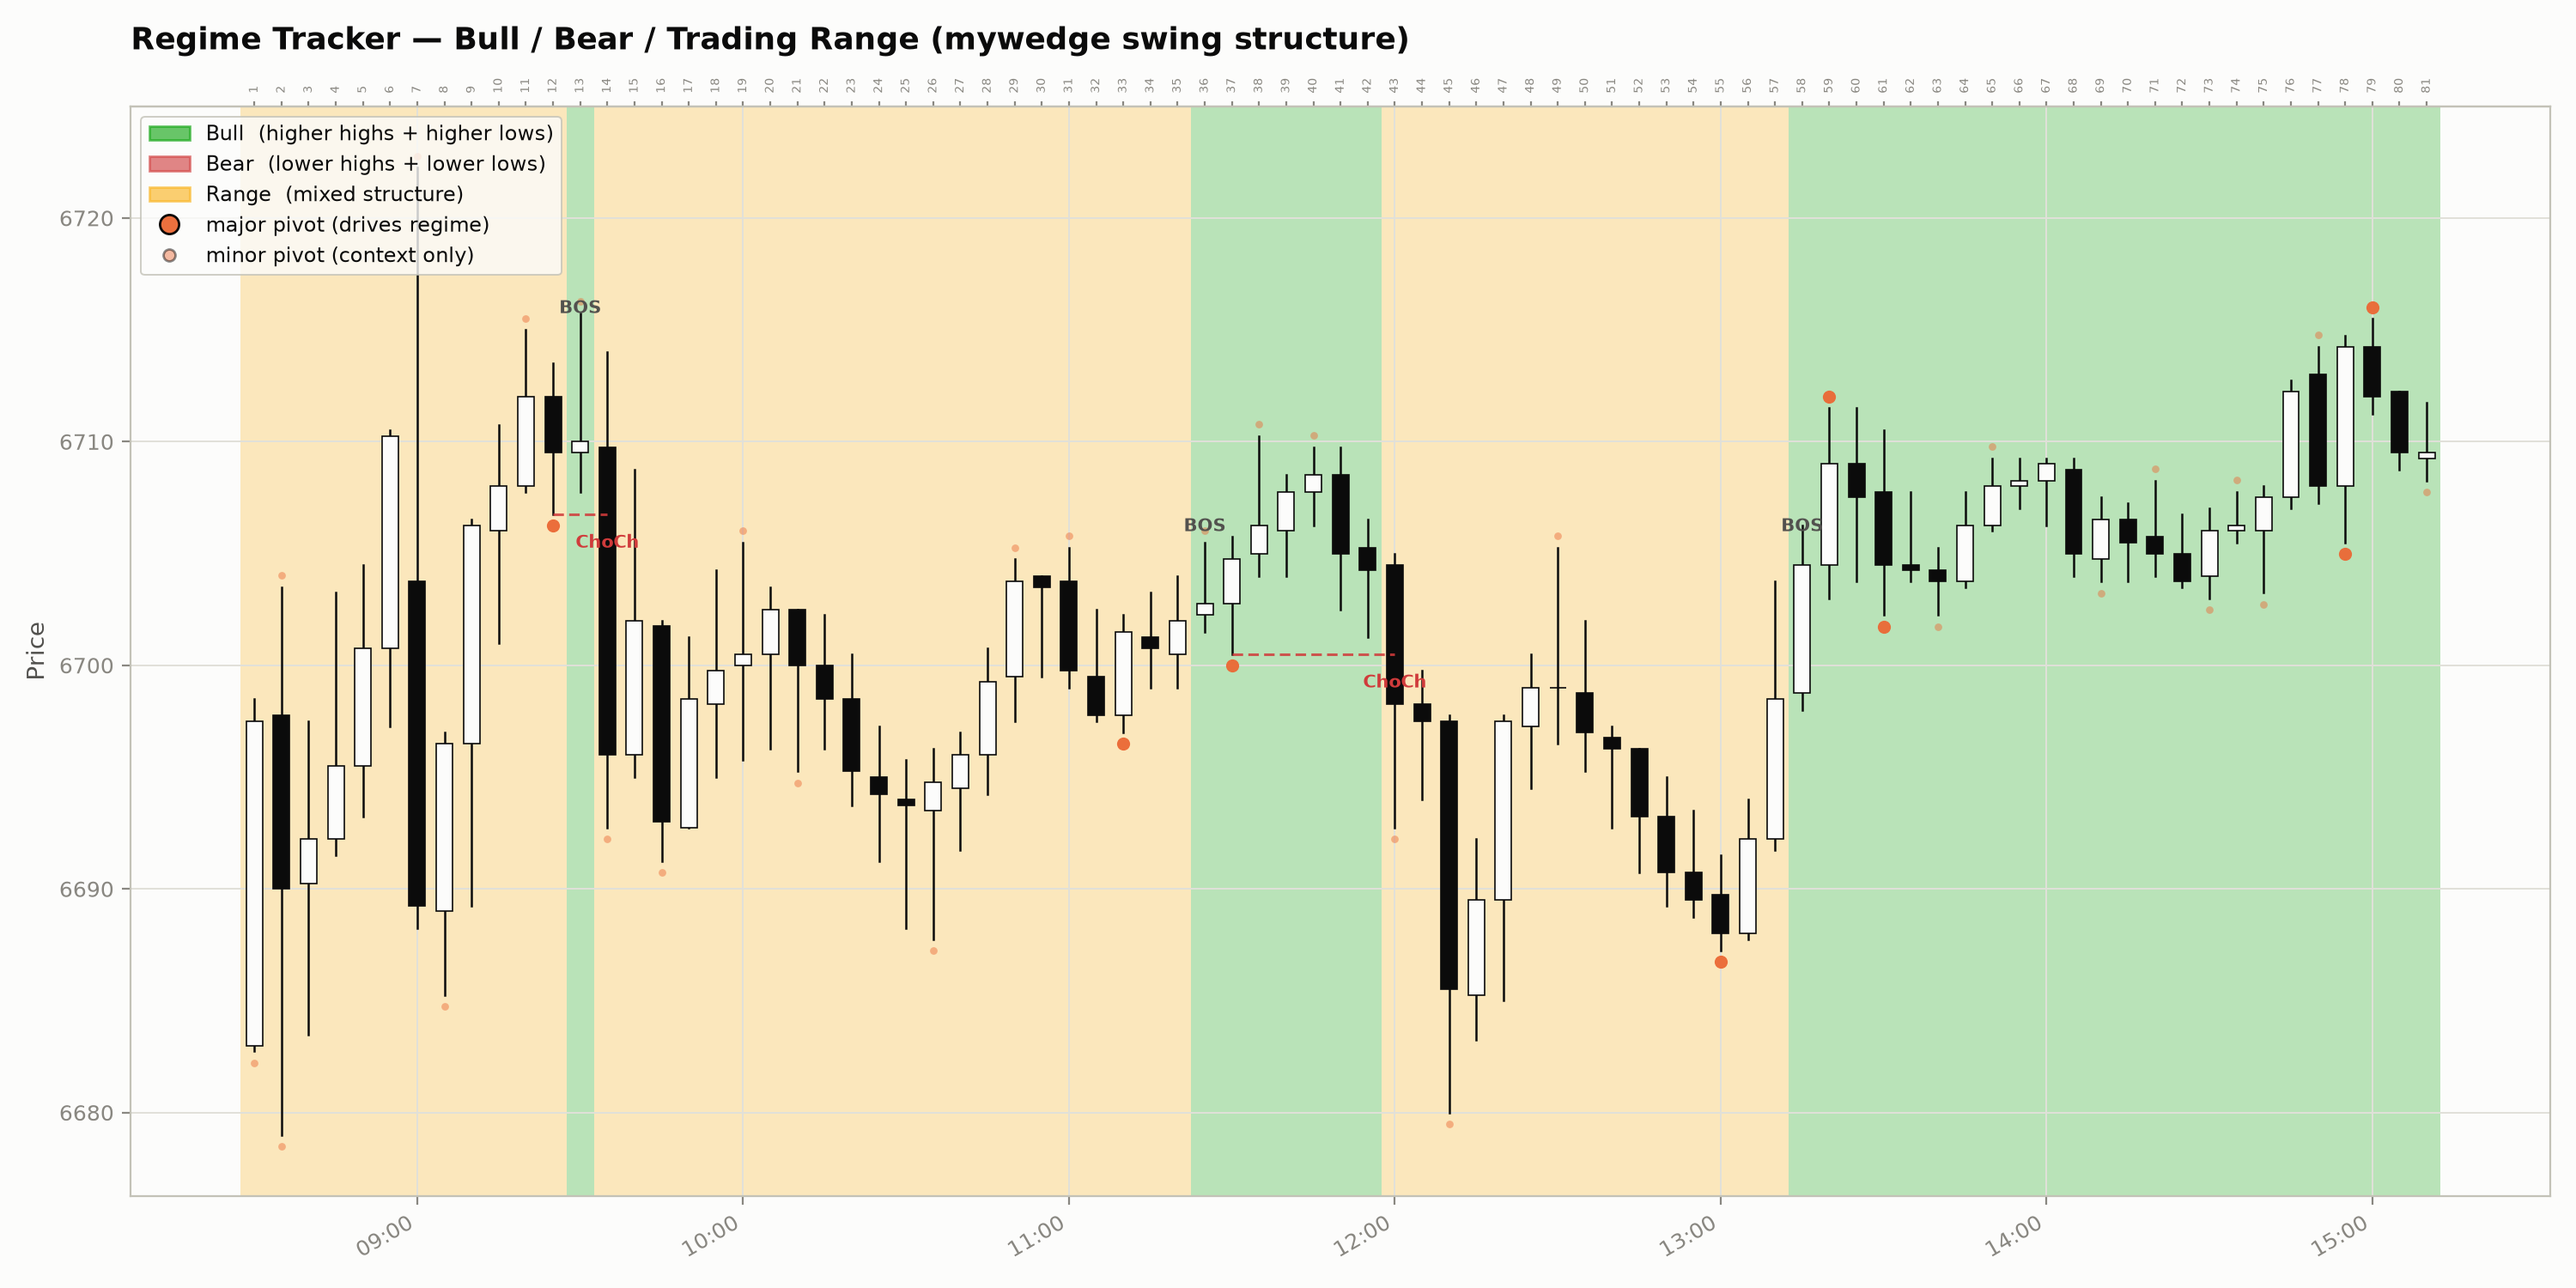
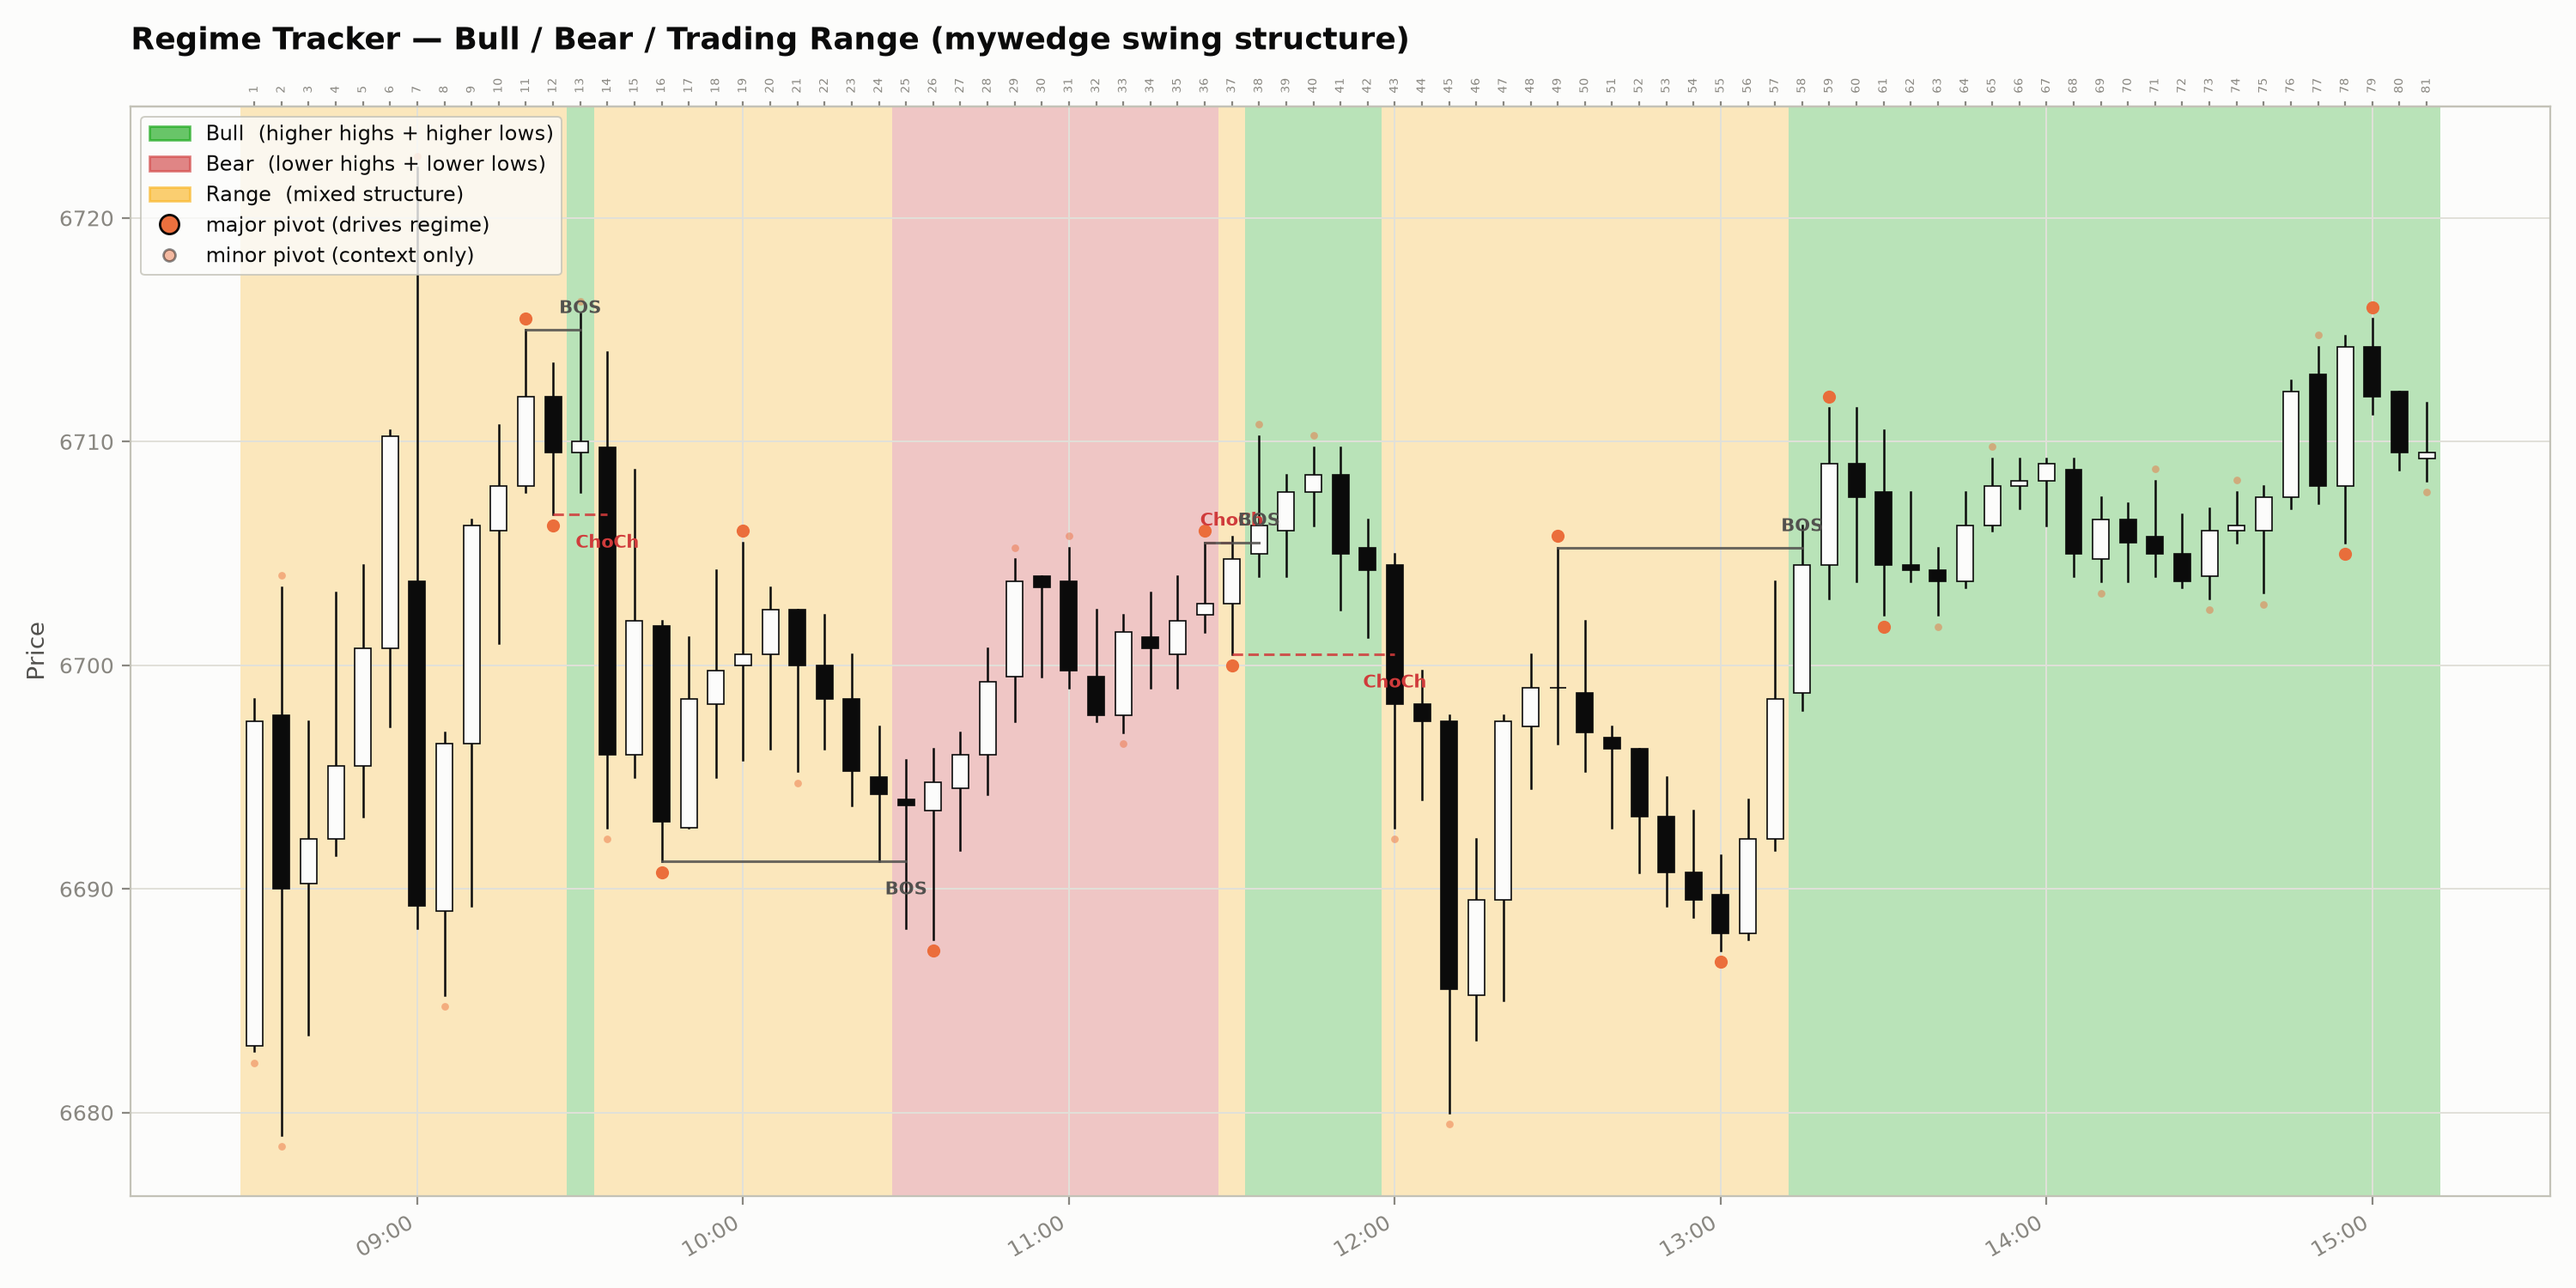
fix(regime-tracker): range exit must clear the swing BEFORE the LH/HL
A range only becomes a trend when the break takes out the swing standing
immediately before the lower high (bear) or higher low (bull) — not whatever
swing happened to print last. A minor pivot forming after the LH/HL never
broke the opposing major structure, so per Market Structure.pdf it must not
reset the setup. Implemented as entry_setup() in regime_tracker.py.

Caught on 2026-06-25: b60->b64 is a bear leg, b65 the pullback LH, and b69
breaking b64's low (7422.25 -> 7418.75) is a BOS into Bear. The old code took
b67's minor low (7422.75) as the reference and missed the entry.

Same rule confirms 2026-04-06 b25 (LH b19 6705.50, ref low b16 6691.25,
broken at 6688.25) while still rejecting b23 (6693.75 — never reached it).

Effect vs 68277ec3, measured:
- Regime timeline unchanged: 12-26, 01-13, 02-13, 06-29. 02-13's hand-marked
  ChoCh at b43 and its Bull 12-43 / Bear 51-81 shape are intact.
- Regime timeline changed: 04-06 (new Bear 25-37) and 06-12 (new Bear 75-79).
- All sessions drop spurious BOS events (12-26 -7, 01-13 -7, 02-13 -4) and
  none gain any; several pullbacks now promote to major correctly. Those
  events were already filtered out of the charts.

Adds the 06-25 session data and chart.

Changed region(s): [[0.341, 0.0613, 0.496, 0.9507]]

diff --git a/regime_tracker/regime_tracker.py b/regime_tracker/regime_tracker.py
@@ -109,6 +109,32 @@ def compute_regime(swing_low, swing_high, low, high, bar_dir=None):
             trend = new_trend
             res.change_points.append((i, new_trend))
 
+    def entry_setup(kind):
+        """The range-exit setup, read the way the document's diagram draws it:
+        1(H) 2(L) 3(H = lower high), and the BOS then breaks 2.
+
+        `kind` is the side that must slope: "H" for a bear setup (lower high),
+        "L" for a bull setup (higher low). Returns (counter_bar, counter_price,
+        ref_bar, ref_price) where counter is the LH/HL that becomes the ChoCh
+        level once the trend starts, and ref is the swing standing immediately
+        BEFORE it -- the one the break has to take out.
+
+        Crucially the reference is the swing before the LH/HL, not whatever
+        swing happened last. A minor pivot forming after it never broke the
+        opposing structure, so it does not reset the setup."""
+        pos = [j for j, (_, k, _) in enumerate(zz) if k == kind]
+        if len(pos) < 2 or pos[-1] == 0:
+            return None
+        j = pos[-1]
+        last_price, prev_price = zz[j][2], zz[pos[-2]][2]
+        sloped = last_price < prev_price if kind == "H" else last_price > prev_price
+        if not sloped:
+            return None
+        ref = zz[j - 1]
+        if ref[1] == kind:               # not alternating -- nothing before it
+            return None
+        return zz[j][0], last_price, ref[0], ref[2]
+
     def push(i, kind, price):
         """Fold a pivot into the swing sequence. A same-kind pivot does not
         extend it -- the leg simply ran further, so the tip moves to the more
@@ -154,20 +180,17 @@ def compute_regime(swing_low, swing_high, low, high, bar_dir=None):
         #        before this bar's own pivots can move them ---
         for side in sides:
             if trend == RANGE:
-                # The pullback has to be there before the break can mean
-                # anything: to turn up, the last completed swing must be the
-                # LOW that will serve as the higher low, and the break clears
-                # the high standing before it. If the last swing is still a
-                # high, the leg is simply running -- no new structure yet.
-                tip = zz[-1][1] if zz else None
-                rh, rl = ref("H"), ref("L")
-                if side == "H" and tip == "L" and rh is not None and hp > rh:
-                    res.events.append((i, "BOS", "up", rh))
-                    if higher_low():
+                if side == "H":
+                    s = entry_setup("L")          # higher low in place -> turn up
+                    if s is not None and hp > s[3]:
+                        res.events.append((i, "BOS", "up", s[3]))
+                        major_high.add(s[2])      # the high the break took out
                         enter(i, BULL, hp)
-                elif side == "L" and tip == "H" and rl is not None and lp < rl:
-                    res.events.append((i, "BOS", "down", rl))
-                    if lower_high():
+                else:
+                    s = entry_setup("H")          # lower high in place -> turn down
+                    if s is not None and lp < s[3]:
+                        res.events.append((i, "BOS", "down", s[3]))
+                        major_low.add(s[2])
                         enter(i, BEAR, lp)
             elif trend == BULL:
                 if side == "L" and counter is not None and lp < counter:

diff --git a/docs/living/handoff.md b/docs/living/handoff.md
@@ -40,6 +40,32 @@ majors and 7–13 BOS per session against the PDF diagrams' ~7–8 numbered pivo
 per trend. Those proportions only appear on 30m structure (4–9 majors, 3–6 BOS). Kept on
 5m deliberately — every call is still a literal BOS/ChoCh, just at a finer grain.
 
+**Range-exit reference (fix 2026-09-21, later same day):** the swing the break must clear
+is the one standing immediately *before* the LH/LH — not whatever swing happened last. A
+minor pivot that forms after the LH/HL never broke the opposing structure, so by the
+document's own sentence ("minor pivots ... typically fail to break the opposing major
+structure") it cannot reset the setup. Implemented as `entry_setup()` in
+`regime_tracker.py`. Caught on 06-25: b60→b64 is a bear leg, b65 the pullback LH, and the
+b69 break of b64's low (7422.25 → 7418.75) is a BOS into Bear — the model was missing it
+because b67's minor low of 7422.75 was being taken as the reference. Same rule confirms
+04-06 b25 (LH b19 6705.50, ref low b16 6691.25, broken at 6688.25) while still rejecting
+b23 (6693.75, never reached it).
+
+Effect across the committed baseline (`68277ec3`) — measured, not assumed:
+- **Regime timeline unchanged:** 12-26, 01-13, 02-13, 06-29. 02-13's hand-validated
+  ChoCh at b43 and its Bull 12–43 / Bear 51–81 shape survive intact.
+- **Regime timeline changed:** 04-06 (new Bear 25–37; the old Bull 36–43 becomes 38–43)
+  and 06-12 (new Bear 75–79 inside what was one Range to the close).
+- **Every** session dropped spurious BOS events (12-26 −7, 01-13 −7, 02-13 −4) and
+  **none gained any**; several pullbacks are now correctly promoted to major. Those
+  events were already filtered out of the charts, so the PNGs barely moved.
+
+**Sessions on disk:** 2025-12-26, 2026-01-13, 02-13, 04-06, 06-12, 06-25, 06-29.
+
+**Known rough edge:** 04-06 flips Bull/Range/Bull across bars 37–43 in a 43-point daily
+shell. Rule-correct but close to noise at that compression — a minimum-leg filter is the
+obvious next knob if it bothers us.
+
 **Open:** the 02-13 late ChoCh (~b76) is marked by hand but not produced. b75 is a bearish
 outside bar that likely traded above b74 first and then below, putting in an LH and an LL
 within one bar; intrabar ordering on outside bars is inferred from `bar_dir`. Parked by
